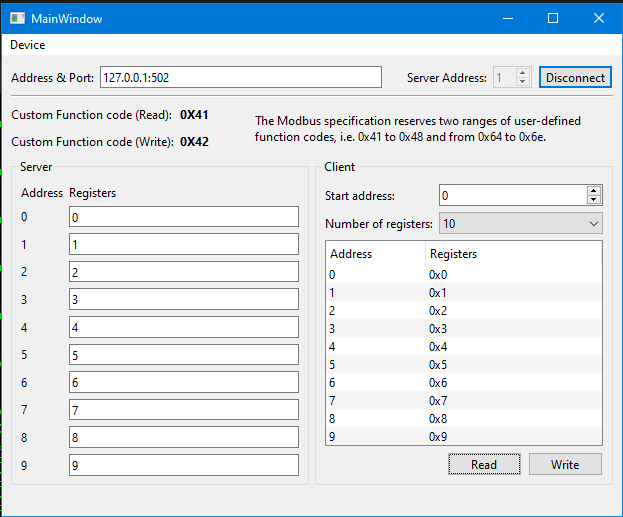
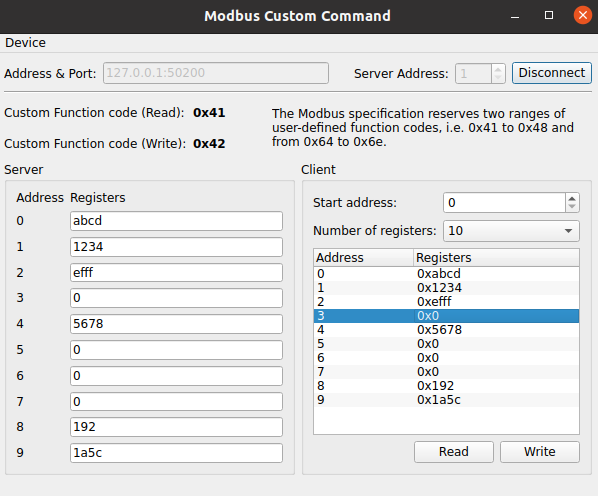
Modbus Custom Command: update example description
Extend the example description so that it actually highlights the main
features shown in the example.

Also update the example to match the guidelines:
* Do not use Example in the name
* Update screenshot
* add Connectivity category

Task-number: QTBUG-110890
Pick-to: 6.5

Changed region(s): [[0.0, 0.0, 1.0, 1.0]]

diff --git a/examples/serialbus/modbus/custom/modbusclient.cpp b/examples/serialbus/modbus/custom/modbusclient.cpp
@@ -31,6 +31,7 @@ ModbusClient::ModbusClient(QObject *parent)
     });
 }
 
+//! [process_custom_read]
 static bool collateBytes(const QModbusPdu &response, QModbusDataUnit *data)
 {
     if (response.dataSize() < MinimumReadResponseSize)
@@ -56,7 +57,9 @@ static bool collateBytes(const QModbusPdu &response, QModbusDataUnit *data)
     }
     return true;
 }
+//! [process_custom_read]
 
+//! [process_custom_write]
 static bool collateMultipleValues(const QModbusPdu &response, QModbusDataUnit *data)
 {
     if (response.dataSize() != WriteResponseSize)
@@ -72,7 +75,9 @@ static bool collateMultipleValues(const QModbusPdu &response, QModbusDataUnit *d
         *data = {QModbusDataUnit::HoldingRegisters, address, count};
     return true;
 }
+//! [process_custom_write]
 
+//! [private_response]
 bool ModbusClient::processPrivateResponse(const QModbusResponse &response, QModbusDataUnit *data)
 {
     if (!response.isValid())
@@ -85,3 +90,4 @@ bool ModbusClient::processPrivateResponse(const QModbusResponse &response, QModb
         return collateMultipleValues(response, data);
     return QModbusClient::processPrivateResponse(response, data);
 }
+//! [private_response]

diff --git a/examples/serialbus/modbus/custom/modbusserver.cpp b/examples/serialbus/modbus/custom/modbusserver.cpp
@@ -40,6 +40,7 @@ QModbusResponse ModbusServer::processPrivateRequest(const QModbusPdu &request)
     if (!request.isValid())
         return QModbusServer::processPrivateRequest(request);
 
+//! [handle_custom_read]
     if (ModbusClient::CustomRead == request.functionCode()) {
         quint16 startAddress, count;
         request.decodeData(&startAddress, &count);
@@ -51,7 +52,9 @@ QModbusResponse ModbusServer::processPrivateRequest(const QModbusPdu &request)
         }
         return QModbusResponse(request.functionCode(), startAddress, quint8(count * 2), unit.values());
     }
+//! [handle_custom_read]
 
+//! [handle_custom_write]
     if (ModbusClient::CustomWrite == request.functionCode()) {
         quint8 byteCount;
         quint16 startAddress, numberOfRegisters;
@@ -79,6 +82,7 @@ QModbusResponse ModbusServer::processPrivateRequest(const QModbusPdu &request)
 
         return QModbusResponse(request.functionCode(), startAddress, numberOfRegisters);
     }
+//! [handle_custom_write]
 
     return QModbusServer::processPrivateRequest(request);
 }

diff --git a/examples/serialbus/modbus/custom/mainwindow.cpp b/examples/serialbus/modbus/custom/mainwindow.cpp
@@ -146,6 +146,7 @@ void MainWindow::onReadButtonClicked()
 
 void MainWindow::onWriteButtonClicked()
 {
+//! [generate_modbus_request]
     QModbusDataUnit unit {
         QModbusDataUnit::HoldingRegisters,
         ui->startAddress->value(),
@@ -162,7 +163,9 @@ void MainWindow::onWriteButtonClicked()
         quint16(unit.startAddress()),
         quint16(unit.valueCount()), byteCount, unit.values()
     };
+//! [generate_modbus_request]
 
+//! [send_custom_command]
     if (auto *reply = m_client.sendRawRequest(writeRequest, ui->serverAddress->value())) {
         if (!reply->isFinished()) {
             connect(reply, &QModbusReply::finished, this, [this, reply]() {
@@ -182,6 +185,7 @@ void MainWindow::onWriteButtonClicked()
     } else {
         statusBar()->showMessage(tr("Write error: ") + m_client.errorString(), 5000);
     }
+//! [send_custom_command]
 }
 
 void MainWindow::setupClientContainer()

diff --git a/examples/serialbus/modbus/custom/modbusclient.h b/examples/serialbus/modbus/custom/modbusclient.h
@@ -6,6 +6,7 @@
 #ifndef MODBUSCLIENT_H
 #define MODBUSCLIENT_H
 
+//! [custom_client]
 class ModbusClient : public QModbusTcpClient
 {
     Q_OBJECT
@@ -20,5 +21,6 @@ public:
 private:
     bool processPrivateResponse(const QModbusResponse &response, QModbusDataUnit *data) override;
 };
+//! [custom_client]
 
 #endif // MODBUSCLIENT_H

diff --git a/examples/serialbus/modbus/custom/modbusserver.h b/examples/serialbus/modbus/custom/modbusserver.h
@@ -6,6 +6,7 @@
 #ifndef MODBUSSERVER_H
 #define MODBUSSERVER_H
 
+//! [custom_server]
 class ModbusServer : public QModbusTcpServer
 {
     Q_OBJECT
@@ -17,5 +18,6 @@ public:
 private:
     QModbusResponse processPrivateRequest(const QModbusPdu &request) override;
 };
+//! [custom_server]
 
 #endif // MODBUSSERVER_H
